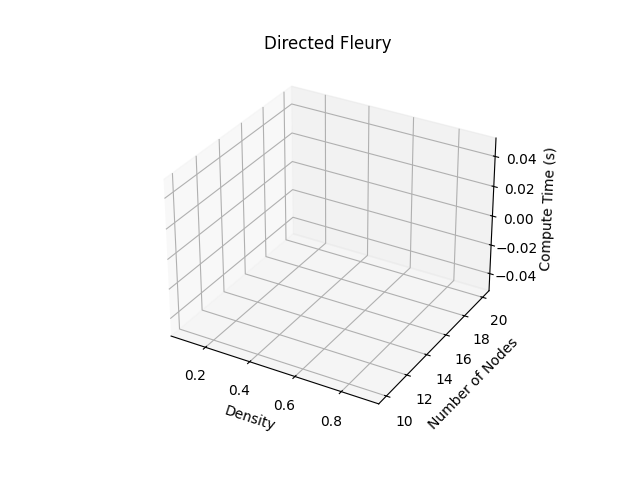
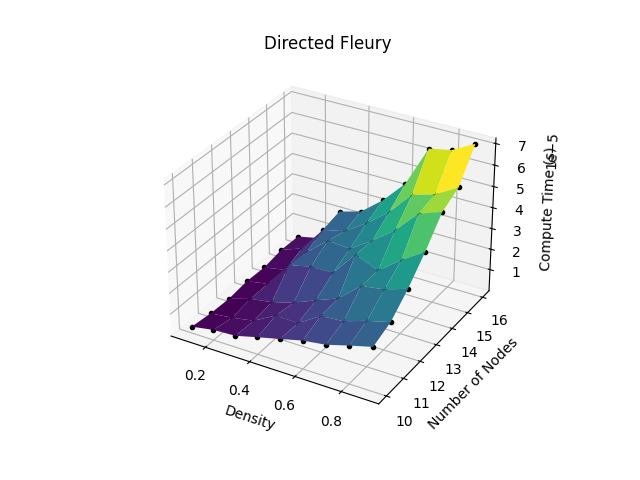
new figures

diff --git a/tests.py b/tests.py
@@ -11,7 +11,7 @@ from DirectedFleury import DirectedFleury
 # adjustable
 density = [i/10 for i in range(1, 10)]
 nodes = [i for i in range(10, 21)]
-n_tries = 10
+n_tries = 3
 
 
 def create_adjacency_matrix(class_, n, d):
@@ -22,7 +22,7 @@ def create_adjacency_matrix(class_, n, d):
     G = [[0 for _ in range(n)] for _ in range(n)]
 
     for i in range(n):
-        for j in range(n):
+        for j in range(i+1, n):
             if i == j:
                 continue
             if random() < d:
@@ -45,7 +45,7 @@ def create_graph_matrix(class_, n, d):
     lb = [[] for _ in range(n)]
 
     for i in range(n):
-        for j in range(n):
+        for j in range(i+1, n):
             if i == j:
                 continue
             if random() < d:
